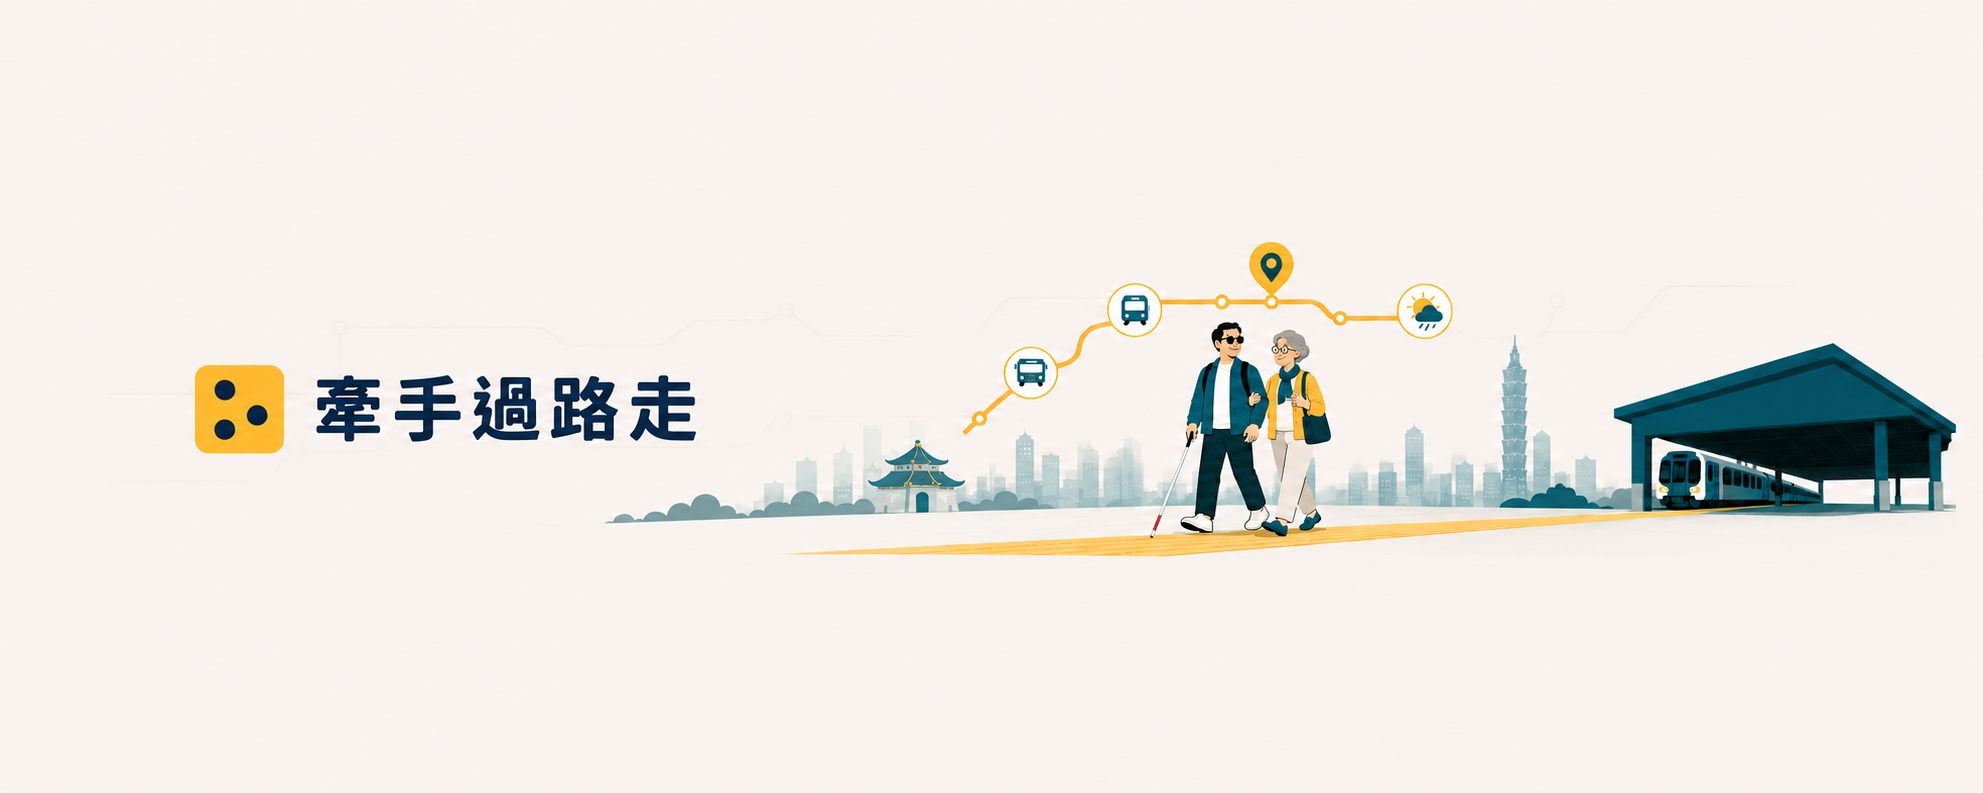
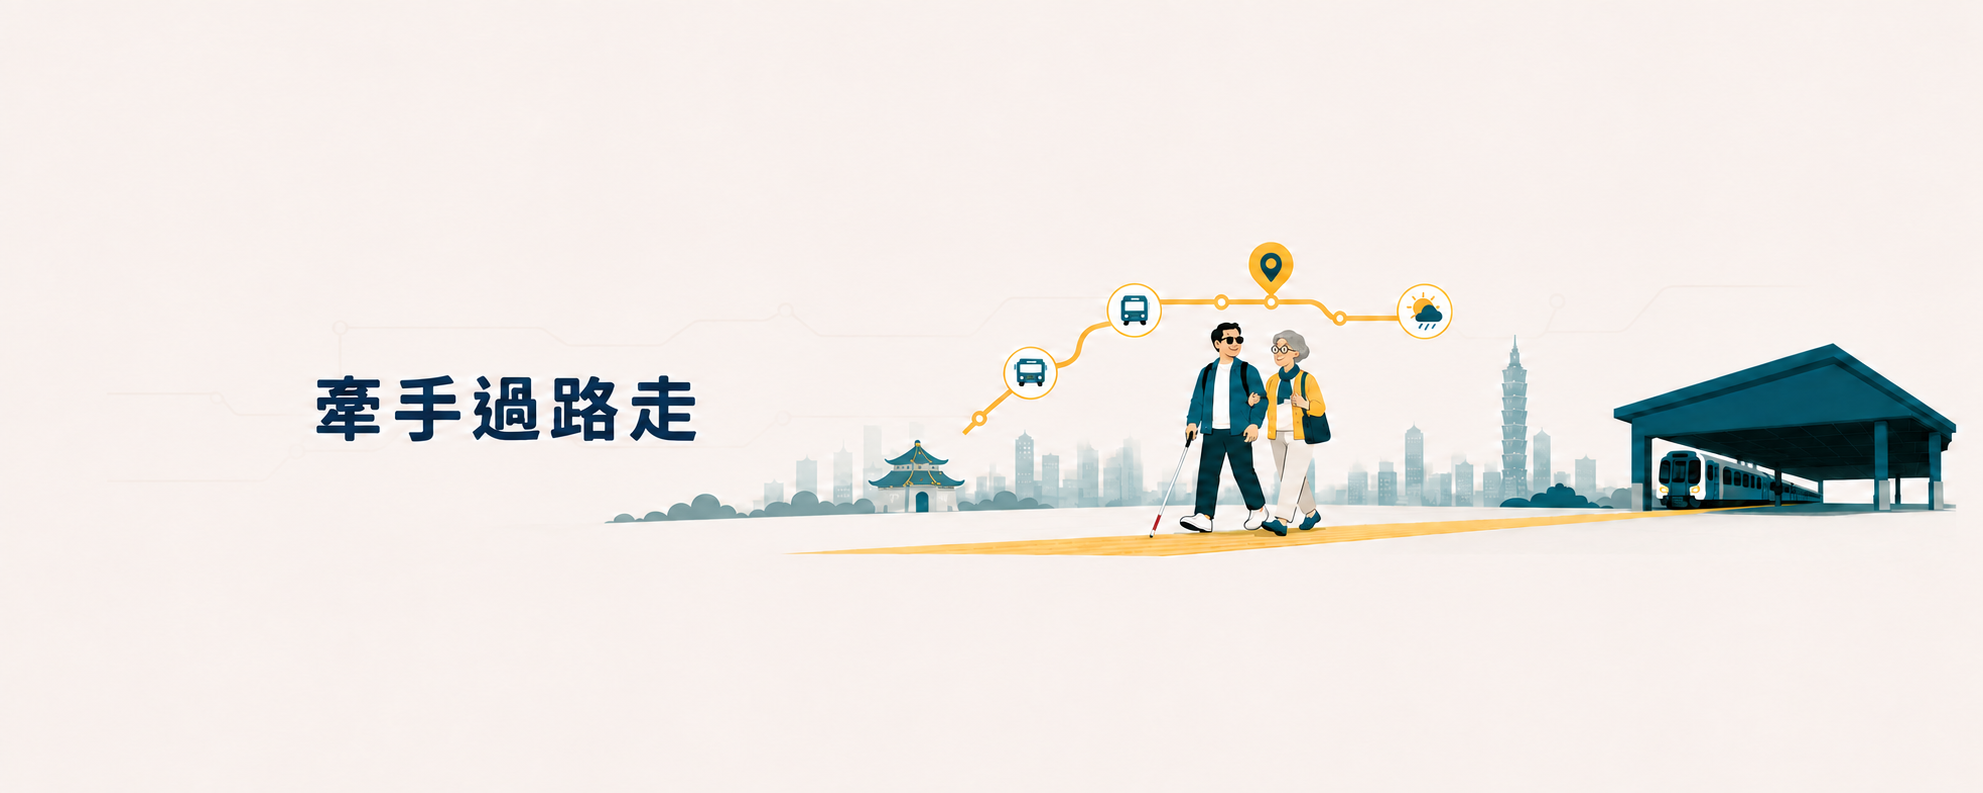
fix: preserve confirmed places during location refresh

diff --git a/src/components/JourneyWorkspace.tsx b/src/components/JourneyWorkspace.tsx
@@ -21,7 +21,10 @@ import {
   currentLocationFailureMessage,
   requestCurrentLocation,
 } from "@/lib/client/current-location";
-import { presentPlaceCandidate } from "@/lib/client/place-presentation";
+import {
+  confirmedPlaceReference,
+  presentPlaceCandidate,
+} from "@/lib/client/place-presentation";
 import type { AnalyticsContext } from "@/lib/domain/analytics";
 import { DEFAULT_JOURNEY_PREFERENCES } from "@/lib/domain/journey";
 import { journeyDestinationQuery } from "@/lib/domain/intent";
@@ -455,30 +458,32 @@ export function JourneyWorkspace() {
       accuracyMeters: number;
       capturedAt: string;
     },
+    confirmedSelections: PlaceSelections = placeSelections,
   ) {
     const existingOrigin =
-      placeSelections.origin?.inputValue === normalizedOrigin
-        ? placeSelections.origin.candidate
+      confirmedSelections.origin?.inputValue === normalizedOrigin
+        ? confirmedSelections.origin.candidate
         : undefined;
     const existingDestination =
-      placeSelections.destination?.inputValue === normalizedDestination
-        ? placeSelections.destination.candidate
+      confirmedSelections.destination?.inputValue === normalizedDestination
+        ? confirmedSelections.destination.candidate
         : undefined;
-    const originQuery = existingOrigin?.id.startsWith("coordinate:")
-      ? `${existingOrigin.latitude.toFixed(6)},${existingOrigin.longitude.toFixed(6)}`
-      : normalizedOrigin;
-    const destinationQuery = existingDestination?.id.startsWith("coordinate:")
-      ? `${existingDestination.latitude.toFixed(6)},${existingDestination.longitude.toFixed(6)}`
-      : normalizedDestination;
+    const confirmedOriginReference = existingOrigin
+      ? confirmedPlaceReference(existingOrigin)
+      : undefined;
+    const confirmedDestinationReference = existingDestination
+      ? confirmedPlaceReference(existingDestination)
+      : undefined;
+    const originQuery = confirmedOriginReference?.query ?? normalizedOrigin;
+    const destinationQuery =
+      confirmedDestinationReference?.query ?? normalizedDestination;
     const preparation = await prepareAccessibleJourney({
       origin: originQuery,
       destination: destinationQuery,
       originLabel:
         currentLocation?.field === "origin"
           ? currentLocation.label
-          : existingOrigin?.id.startsWith("coordinate:")
-            ? existingOrigin.name
-            : undefined,
+          : confirmedOriginReference?.label,
       originAccuracyMeters:
         currentLocation?.field === "origin"
           ? currentLocation.accuracyMeters
@@ -490,9 +495,7 @@ export function JourneyWorkspace() {
       destinationLabel:
         currentLocation?.field === "destination"
           ? currentLocation.label
-          : existingDestination?.id.startsWith("coordinate:")
-            ? existingDestination.name
-            : undefined,
+          : confirmedDestinationReference?.label,
       destinationAccuracyMeters:
         currentLocation?.field === "destination"
           ? currentLocation.accuracyMeters
@@ -501,8 +504,6 @@ export function JourneyWorkspace() {
         currentLocation?.field === "destination"
           ? currentLocation.capturedAt
           : undefined,
-      originCandidateId: existingOrigin?.id,
-      destinationCandidateId: existingDestination?.id,
       preferences: { ...DEFAULT_JOURNEY_PREFERENCES },
     });
     recordAnalyticsEvent({
@@ -555,6 +556,7 @@ export function JourneyWorkspace() {
   async function prepareWithCurrentLocation(
     field: PlaceField,
     otherPlace: string,
+    confirmedSelections: PlaceSelections = placeSelections,
   ) {
     recordAnalyticsEvent({
       context: analyticsContextRef.current,
@@ -583,7 +585,15 @@ export function JourneyWorkspace() {
       setClarificationQuestion(null);
       setOrigin(field === "origin" ? location.label : otherPlace);
       setDestination(field === "destination" ? location.label : otherPlace);
-      setPlaceSelections({});
+      setPlaceSelections(
+        field === "origin"
+          ? confirmedSelections.destination
+            ? { destination: confirmedSelections.destination }
+            : {}
+          : confirmedSelections.origin
+            ? { origin: confirmedSelections.origin }
+            : {},
+      );
       setPlaceChoices({});
       setAnnouncement("已取得剛更新的位置，正在確認地點與路線。");
       await prepareResolvedJourney(
@@ -595,6 +605,7 @@ export function JourneyWorkspace() {
           accuracyMeters: location.accuracyMeters,
           capturedAt: location.capturedAt,
         },
+        confirmedSelections,
       );
     } catch (caught) {
       const message = currentLocationFailureMessage(caught);
@@ -714,9 +725,7 @@ export function JourneyWorkspace() {
       !intentDirty &&
       !placeChoices.origin &&
       !placeChoices.destination &&
-      Boolean(confirmedOrigin && confirmedDestination) &&
-      confirmedOrigin?.name !== "目前位置" &&
-      confirmedDestination?.name !== "目前位置";
+      Boolean(confirmedOrigin && confirmedDestination);
 
     if (!canReuseConfirmedPlaces && utterance.length < 2) {
       setError("請說出你想去哪裡，或你現在附近有什麼地標。");
@@ -745,9 +754,27 @@ export function JourneyWorkspace() {
 
     try {
       if (canReuseConfirmedPlaces && confirmedOrigin && confirmedDestination) {
+        if (confirmedOrigin.name === "目前位置") {
+          await prepareWithCurrentLocation(
+            "origin",
+            confirmedDestination.name,
+            placeSelections,
+          );
+          return;
+        }
+        if (confirmedDestination.name === "目前位置") {
+          await prepareWithCurrentLocation(
+            "destination",
+            confirmedOrigin.name,
+            placeSelections,
+          );
+          return;
+        }
         await prepareResolvedJourney(
           confirmedOrigin.name,
           confirmedDestination.name,
+          undefined,
+          placeSelections,
         );
         return;
       }
@@ -790,7 +817,7 @@ export function JourneyWorkspace() {
         intent.destinationReference === "current-location" &&
         normalizedOrigin
       ) {
-        await prepareWithCurrentLocation("destination", normalizedOrigin);
+        await prepareWithCurrentLocation("destination", normalizedOrigin, {});
         return;
       }
       const normalizedDestination = journeyDestinationQuery(intent);
@@ -798,7 +825,7 @@ export function JourneyWorkspace() {
         throw new Error("目前還無法確認完整的起點與目的地。");
       }
       if (intent.originReference === "current-location") {
-        await prepareWithCurrentLocation("origin", normalizedDestination);
+        await prepareWithCurrentLocation("origin", normalizedDestination, {});
         return;
       }
       if (!normalizedOrigin) {
@@ -810,7 +837,12 @@ export function JourneyWorkspace() {
       setPlaceSelections({});
       setPlaceChoices({});
       setAnnouncement("已理解你的需求，正在確認實際地點與路線。");
-      await prepareResolvedJourney(normalizedOrigin, normalizedDestination);
+      await prepareResolvedJourney(
+        normalizedOrigin,
+        normalizedDestination,
+        undefined,
+        {},
+      );
     } catch (caught) {
       const message = caught instanceof Error ? caught.message : "無法整理行程。";
       setError(`${message} 請換句話說，並提供附近地標後再試一次。`);
@@ -1117,7 +1149,6 @@ export function JourneyWorkspace() {
                     >
                       <span className="place-choice-heading">
                         <span className="place-choice-name">{place.name}</span>
-                        <span className="place-choice-kind">{place.kind}</span>
                       </span>
                       <span className="place-choice-location">
                         位置：{place.location}

diff --git a/src/lib/client/place-presentation.test.ts b/src/lib/client/place-presentation.test.ts
@@ -1,6 +1,9 @@
 import { describe, expect, it } from "vitest";
 import type { PlaceCandidate } from "@/lib/domain/journey";
-import { presentPlaceCandidate } from "@/lib/client/place-presentation";
+import {
+  confirmedPlaceReference,
+  presentPlaceCandidate,
+} from "@/lib/client/place-presentation";
 
 function candidate(
   overrides: Partial<PlaceCandidate> = {},
@@ -66,6 +69,23 @@ describe("presentPlaceCandidate", () => {
       name: "淡水",
       kind: "車站",
       location: "新北市淡水區・中正路 1 號",
+    });
+  });
+});
+
+describe("confirmedPlaceReference", () => {
+  it("已確認的候選改以固定座標續跑，避免再次用名稱搜尋", () => {
+    expect(
+      confirmedPlaceReference(
+        candidate({
+          name: "圖書館",
+          latitude: 25.0123456,
+          longitude: 121.4567894,
+        }),
+      ),
+    ).toEqual({
+      query: "25.012346,121.456789",
+      label: "圖書館",
     });
   });
 });

diff --git a/src/app/globals.css b/src/app/globals.css
@@ -261,24 +261,10 @@ a:focus-visible,
 }
 
 .place-choice-heading {
-  display: flex;
-  flex-wrap: wrap;
-  align-items: baseline;
-  justify-content: space-between;
-  gap: 0.6rem;
+  display: block;
 }
 
 .place-choice-name { font-size: 1.05rem; font-weight: 900; }
-
-.place-choice-kind {
-  flex: none;
-  padding: 0.12rem 0.38rem;
-  border: 1px solid var(--route);
-  background: var(--mist);
-  color: var(--route);
-  font-size: 0.76rem;
-  font-weight: 900;
-}
 
 .place-choice-location {
   color: var(--asphalt-soft);

diff --git a/src/lib/client/place-presentation.ts b/src/lib/client/place-presentation.ts
@@ -6,6 +6,20 @@ export type PlaceCandidatePresentation = {
   location: string;
 };
 
+export type ConfirmedPlaceReference = {
+  query: string;
+  label: string;
+};
+
+export function confirmedPlaceReference(
+  candidate: PlaceCandidate,
+): ConfirmedPlaceReference {
+  return {
+    query: `${candidate.latitude.toFixed(6)},${candidate.longitude.toFixed(6)}`,
+    label: candidate.name,
+  };
+}
+
 const kindText: Record<PlaceCandidate["kind"], string> = {
   "transit-stop": "公車站",
   station: "車站",
